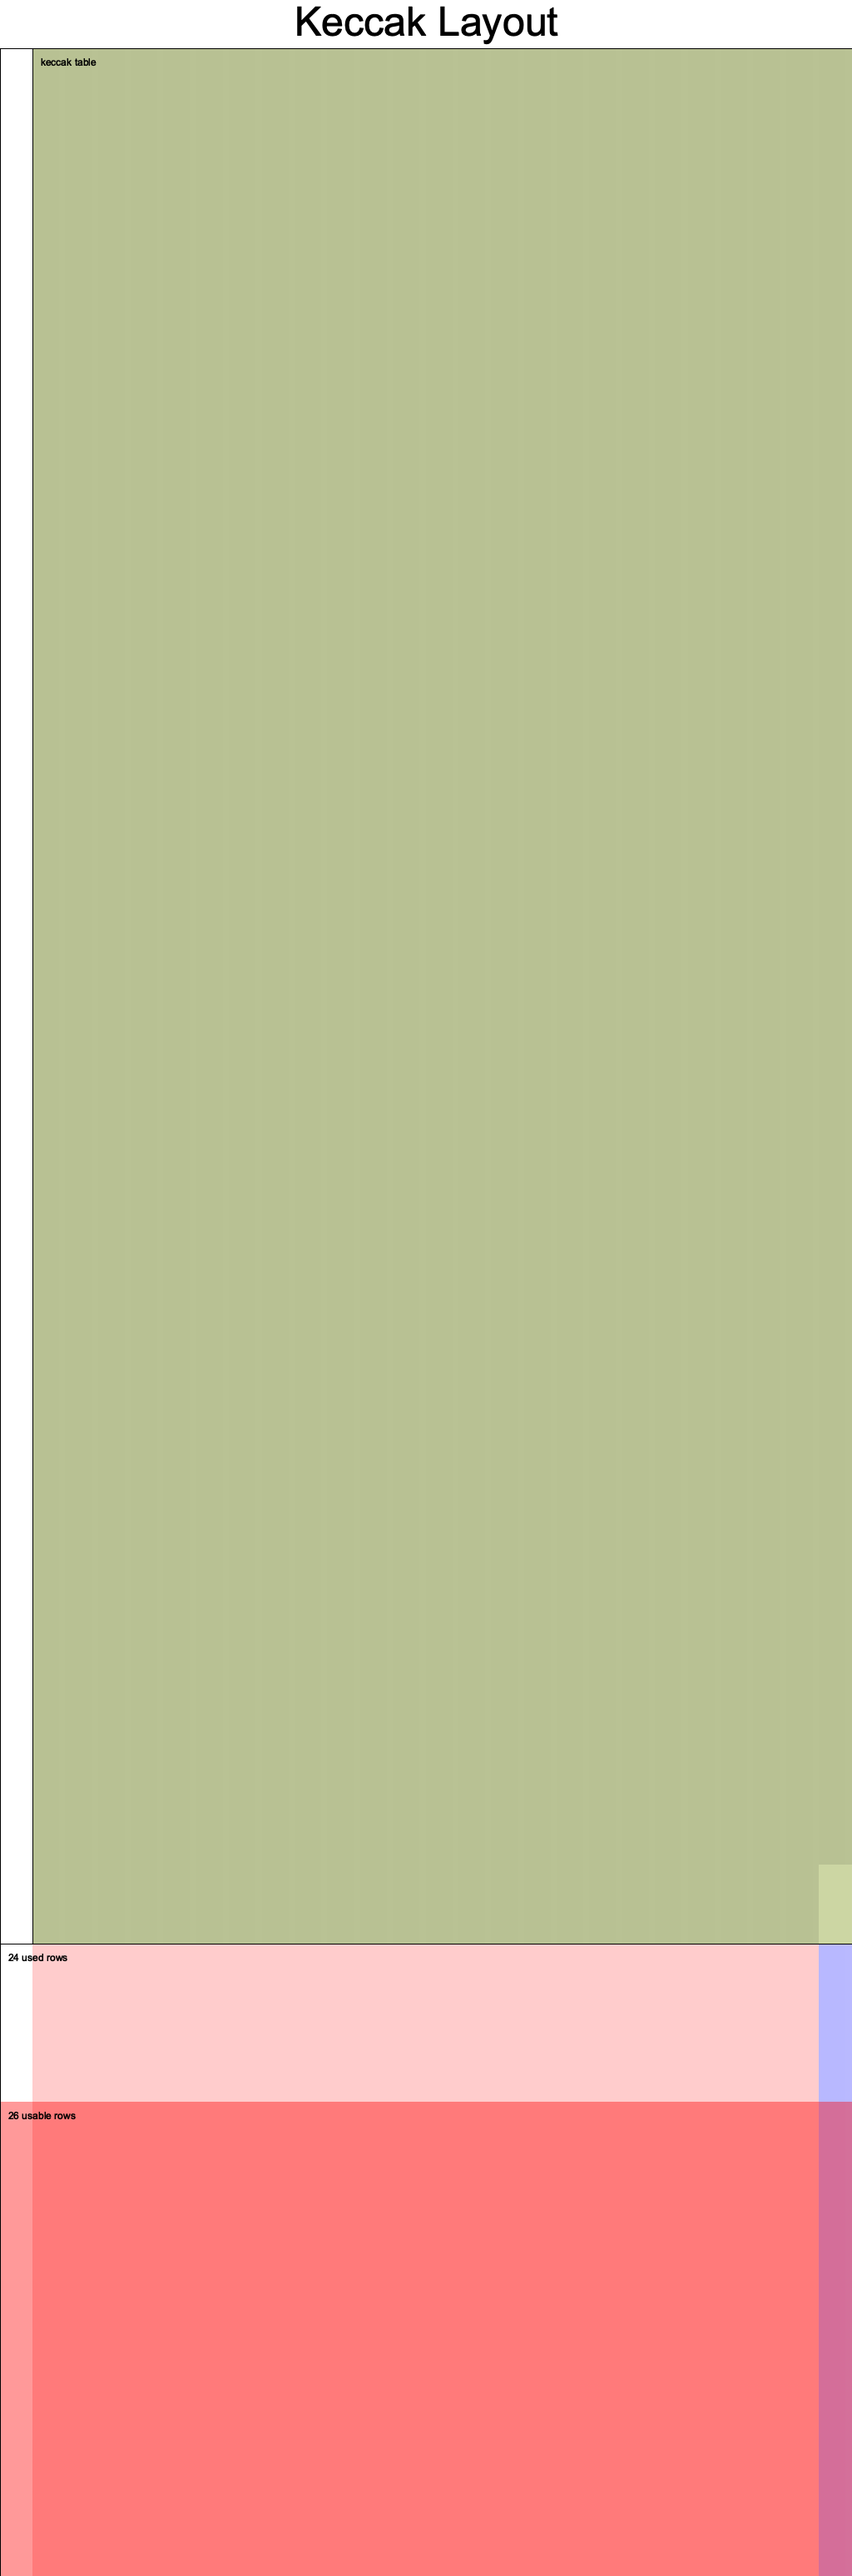
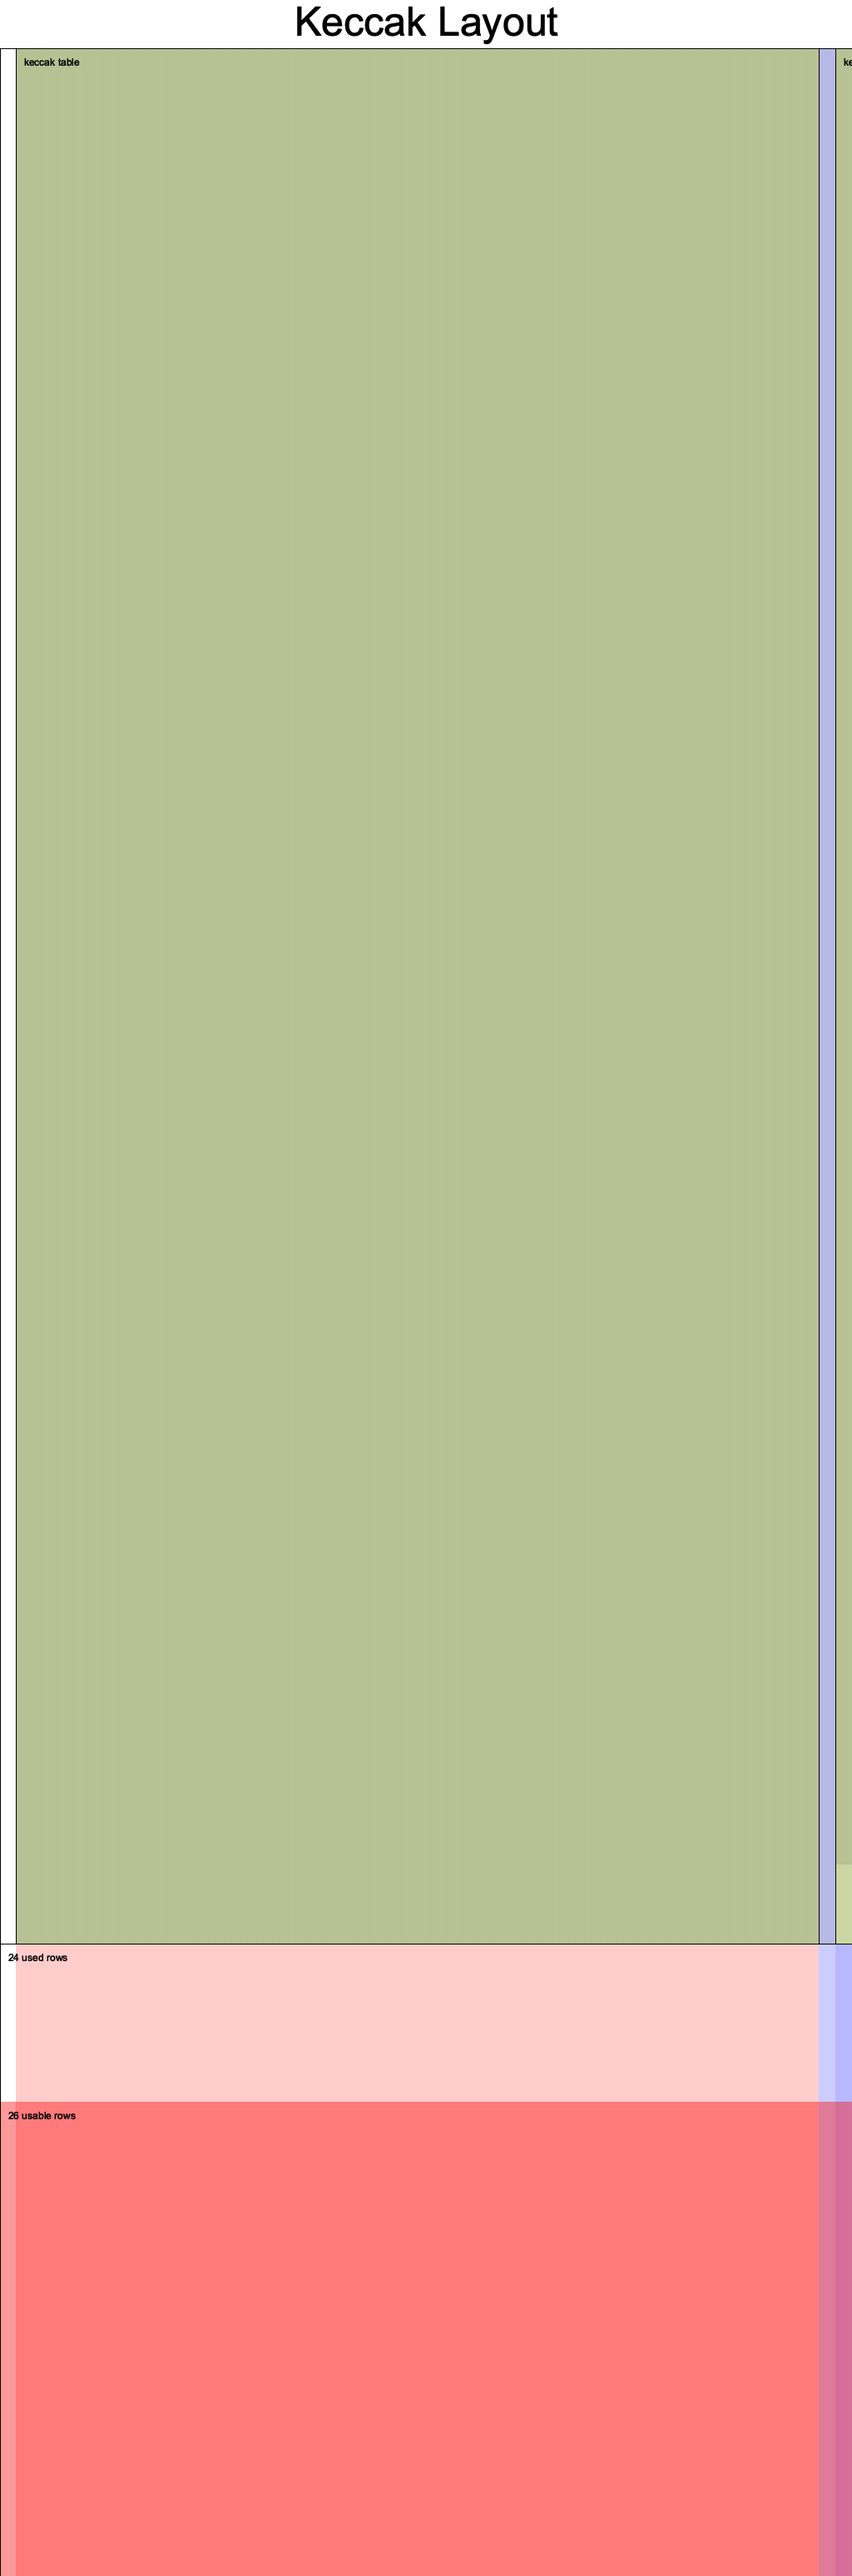
feat: add input constraints

Changed region(s): [[0.0, 0.0, 0.0625, 1.0], [0.9375, 0.0, 1.0, 0.7752]]

diff --git a/src/lib.rs b/src/lib.rs
@@ -3,7 +3,7 @@ mod columns;
 use halo2_proofs::{arithmetic::Field, circuit::*, plonk::*, poly::Rotation};
 use std::marker::PhantomData;
 
-use columns::reg_step;
+use columns::{reg_preimage, reg_step};
 // use columns::{NUM_COLUMNS};
 
 /// Number of rounds in a Keccak permutation.
@@ -12,13 +12,14 @@ pub(crate) const NUM_ROUNDS: usize = 24;
 /// Number of 64-bit elements in the Keccak permutation input.
 pub(crate) const NUM_INPUTS: usize = 25;
 
-const NUM_COLUMNS: usize = NUM_ROUNDS;
+const NUM_COLUMNS: usize = 49;
 
 #[derive(Debug, Clone)]
 struct KeccakConfig {
     pub cols: [Column<Advice>; NUM_COLUMNS],
     pub selector: Selector,
     pub instance: Column<Instance>,
+    pub constant: Column<Fixed>,
 }
 
 #[derive(Debug, Clone)]
@@ -38,7 +39,10 @@ impl<F: Field> KeccakChip<F> {
     pub fn configure(meta: &mut ConstraintSystem<F>) -> KeccakConfig {
         let selector = meta.selector();
         let instance = meta.instance_column();
+        let constant = meta.fixed_column();
+
         meta.enable_equality(instance);
+        meta.enable_constant(constant);
 
         let cols: [Column<Advice>; NUM_COLUMNS] = (0..NUM_COLUMNS)
             .map(|_| meta.advice_column())
@@ -59,10 +63,26 @@ impl<F: Field> KeccakChip<F> {
             });
         }
 
+        // Preimages
+        for x in 0..5 {
+            for y in 0..5 {
+                meta.enable_equality(cols[reg_preimage(x, y)]);
+
+                meta.create_gate("preimage", |meta| {
+                    let s = meta.query_selector(selector);
+                    let preimage = reg_preimage(x, y);
+                    let diff = meta.query_advice(cols[preimage], Rotation::cur())
+                        - meta.query_advice(cols[preimage], Rotation::next());
+                    vec![s * diff]
+                });
+            }
+        }
+
         KeccakConfig {
             cols,
             selector,
             instance,
+            constant,
         }
     }
 
@@ -70,41 +90,66 @@ impl<F: Field> KeccakChip<F> {
         layouter.assign_region(
             || "keccak table",
             |mut region| {
+                let mut preimage_cells = Vec::with_capacity(5 * 5);
+                // Populate the preimage for first row.
+                for x in 0..5 {
+                    for y in 0..5 {
+                        let preimage = reg_preimage(x, y);
+                        preimage_cells.push(region.assign_advice_from_instance(
+                            || "preimage",
+                            self.config.instance,
+                            y * 5 + x,
+                            self.config.cols[preimage],
+                            0,
+                        )?);
+                    }
+                }
+
                 // Assign first row
                 let mut cells = Vec::with_capacity(NUM_ROUNDS);
 
-                cells.push(region.assign_advice_from_instance(
+                cells.push(region.assign_advice_from_constant(
                     || "1",
-                    self.config.instance,
+                    self.config.cols[reg_step(0)],
                     0,
-                    self.config.cols[0],
-                    0
+                    F::ONE,
                 )?);
 
                 for col in 1..NUM_ROUNDS {
-                    cells.push(region.assign_advice_from_instance(
+                    cells.push(region.assign_advice_from_constant(
                         || "0",
-                        self.config.instance,
-                        1,
                         self.config.cols[reg_step(col)],
-                        0
+                        0,
+                        F::ZERO,
                     )?);
                 }
 
                 // Assign remaining rows
-                for row in 0..NUM_ROUNDS-1 {
-                    self.config.selector.enable(&mut region, row)?;
+                for round in 0..NUM_ROUNDS - 1 {
+                    self.config.selector.enable(&mut region, round)?;
 
                     let mut new_cells = Vec::with_capacity(NUM_ROUNDS);
                     for col in 0..NUM_ROUNDS {
                         new_cells.push(region.assign_advice(
                             || "advice",
                             self.config.cols[reg_step(col)],
-                            row + 1,
+                            round + 1,
                             || cells[(col + NUM_ROUNDS - 1) % NUM_ROUNDS].value().copied(),
                         )?);
                     }
                     cells = new_cells;
+
+                    for x in 0..5 {
+                        for y in 0..5 {
+                            let preimage = reg_preimage(x, y);
+                            region.assign_advice(
+                                || "preimage",
+                                self.config.cols[preimage],
+                                round + 1,
+                                || preimage_cells[x * 5 + y].value().copied(),
+                            )?;
+                        }
+                    }
                 }
 
                 Ok(cells[NUM_ROUNDS - 1].clone())
@@ -146,7 +191,7 @@ impl<F: Field> Circuit<F> for KeccakCircuit<F> {
 
         let out_cell = chip.assign(layouter.namespace(|| "table"))?;
 
-        chip.expose_public(layouter.namespace(|| "out"), &out_cell, 0)?;
+        // chip.expose_public(layouter.namespace(|| "out"), &out_cell, NUM_INPUTS + 1)?;
 
         Ok(())
     }
@@ -154,25 +199,25 @@ impl<F: Field> Circuit<F> for KeccakCircuit<F> {
 
 #[cfg(test)]
 mod tests {
-    use std::marker::PhantomData;
+    use super::*;
 
-    use super::KeccakCircuit;
     use halo2_proofs::dev::MockProver;
     use halo2curves::pasta::Fp;
+    use std::marker::PhantomData;
 
     #[test]
     fn keccak_example1() {
-        let k = 5;
+        let k = 6;
 
         // let a = Fp::from(1); // F[0]
         // let out = Fp::from(55); // F[9]
 
         let circuit = KeccakCircuit(PhantomData);
 
-        let public_input = vec![Fp::from(1), Fp::from(0), Fp::from(1)];
-        
-        println!("k: {:?}", k);
-        println!("public_input: {:?}", public_input);
+        let input: [u64; NUM_INPUTS] = rand::random();
+        let public_input = input.map(|x| Fp::from(x)).to_vec();
+
+        // println!("public_input: {:?}", public_input);
 
         let prover = MockProver::run(k, &circuit, vec![public_input.clone()]).unwrap();
         prover.assert_satisfied();

diff --git a/src/columns.rs b/src/columns.rs
@@ -6,10 +6,6 @@ pub const fn reg_step(i: usize) -> usize {
     i
 }
 
-/// A register which indicates if a row should be included in the CTL. Should be 1 only for certain
-/// rows which are final steps, i.e. with `reg_step(23) = 1`.
-pub const REG_FILTER: usize = NUM_ROUNDS;
-
 const R: [[u8; 5]; 5] = [
     [0, 36, 3, 41, 18],
     [1, 44, 10, 45, 2],
@@ -18,12 +14,12 @@ const R: [[u8; 5]; 5] = [
     [27, 20, 39, 8, 14],
 ];
 
-const START_PREIMAGE: usize = NUM_ROUNDS + 1;
+const START_PREIMAGE: usize = NUM_ROUNDS;
 /// Registers to hold the original input to a permutation, i.e. the input to the first round.
 pub(crate) const fn reg_preimage(x: usize, y: usize) -> usize {
     debug_assert!(x < 5);
     debug_assert!(y < 5);
-    START_PREIMAGE + (x * 5 + y) * 2
+    START_PREIMAGE + (x * 5 + y)
 }
 
 const START_A: usize = START_PREIMAGE + 5 * 5 * 2;
